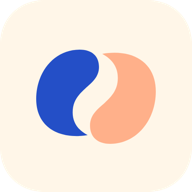
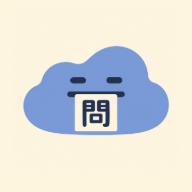
名前を「問いポスト」にそろえる。ロゴを本人の新しい雲（くもと）に替える
- 見出し・タイトル・OGP・構造化データ（旧名は alternateName に残す）・フッター・マニフェスト・問いごとの静的ページ
- ファビコン・アプリのアイコン・見出しのマークを新しいロゴから作り直した
- 画面と LINE の文の「問う応える」を「問いポスト」に

Claude-Session: https://claude.ai/code/session_01JTS9wHoswqBZuuv7uGtGUu

diff --git a/web/js/app.js b/web/js/app.js
@@ -1,5 +1,5 @@
 /**
- * app.js - Miacis 問いコーナー 本番フロントエンド制御 & ルーティング
+ * app.js - 問いポスト 本番フロントエンド制御 & ルーティング
  * ES Module (ビルド不要・素の ES Modules)
  */
 
@@ -723,7 +723,7 @@ function renderReceipt(questionId) {
 
         <div class="receipt-actions">
           ${lineLinkedIds.has(questionId) ? `
-          <p class="receipt-sub-notice">LINE とつながっているので、返事がきたら「問う応える」から知らせます。</p>`
+          <p class="receipt-sub-notice">LINE とつながっているので、返事がきたら「問いポスト」から知らせます。</p>`
           : lineReady() ? `
           <a href="${watchUrl(questionId)}" class="btn btn-line btn-block">
             返事がきたら LINE で知らせてもらう
@@ -770,7 +770,7 @@ async function renderInbox() {
         <h1 id="inbox-heading" class="inbox-h1" tabindex="-1">自分への返事</h1>
         <p class="inbox-desc">あなたが送った問いの確認状況や、届いた大人からの返事を読めます。</p>
         ${lineReady() ? (lineLinked ? `
-          <p class="inbox-desc">LINE とつながっています。ほかの端末や LINE の中で出した問いも、ここに出ます。返事がきたら「問う応える」から知らせます。
+          <p class="inbox-desc">LINE とつながっています。ほかの端末や LINE の中で出した問いも、ここに出ます。返事がきたら「問いポスト」から知らせます。
             <a href="#notes">LINE で答えたノート →</a></p>
         ` : `
           <button type="button" class="btn btn-line btn-sm" id="btn-line-connect" style="margin-top: 12px;">LINE とつなぐ（ほかの端末と同じ一覧にする）</button>
@@ -903,14 +903,14 @@ async function syncLineQuestions() {
 
 /**
  * 5-2. LINE で答えたノート (#notes)
- * 公式LINE「問う応える」に届いた問いへ、トークで答えたもの。LINE でログインした本人だけが読める
+ * 公式LINE「問いポスト」に届いた問いへ、トークで答えたもの。LINE でログインした本人だけが読める
  */
 async function renderNotes() {
   if (!lineReady() || !isConfigured()) {
     mainContainer.innerHTML = `
       <div class="card p-lg text-center" style="max-width: 500px; margin: 2rem auto;">
         <h1 id="notes-heading" tabindex="-1" class="inbox-h1">ノート</h1>
-        <p>LINE の「問う応える」で答えたことが、ここに残ります。いまは準備中です。</p>
+        <p>LINE の「問いポスト」で答えたことが、ここに残ります。いまは準備中です。</p>
         <div style="margin-top: 1rem;"><a href="#home" class="btn btn-primary">みんなの問いへ</a></div>
       </div>
     `;
@@ -943,7 +943,7 @@ async function renderNotes() {
     <div class="inbox-container">
       <div class="inbox-header">
         <h1 id="notes-heading" class="inbox-h1" tabindex="-1">自分のノート</h1>
-        <p class="inbox-desc">LINE の「問う応える」に届いた問いへ、トークで答えたことが残ります。読めるのはあなただけです。</p>
+        <p class="inbox-desc">LINE の「問いポスト」に届いた問いへ、トークで答えたことが残ります。読めるのはあなただけです。</p>
       </div>
       <div class="inbox-list">
         ${notes === null ? `
@@ -954,8 +954,8 @@ async function renderNotes() {
         ` : notes.length === 0 ? `
           <div class="card" style="text-align: center; padding: 36px 20px;">
             <p style="font-weight: 600; margin-bottom: 8px;">まだノートがありません</p>
-            <p style="font-size: 0.875rem; color: var(--color-body-muted); margin-bottom: 20px;">LINE の「問う応える」で「問い」と打つと、問いが1つ届きます。思ったことをそのまま打つと、ここに残ります。</p>
-            <a href="${FRIEND_URL}" class="btn btn-line">「問う応える」を開く</a>
+            <p style="font-size: 0.875rem; color: var(--color-body-muted); margin-bottom: 20px;">LINE の「問いポスト」で「問い」と打つと、問いが1つ届きます。思ったことをそのまま打つと、ここに残ります。</p>
+            <a href="${FRIEND_URL}" class="btn btn-line">「問いポスト」を開く</a>
           </div>
         ` : notes.map(n => `
           <article class="inbox-card">
@@ -1546,7 +1546,7 @@ async function boot() {
 
 /**
  * 「返事がきたら LINE で知らせてもらう」で開かれた（LIFF・?watch=<問いの id>）
- * LINE にログインして、この問いの返事を待つ。知らせは公式LINE「問う応える」から届く
+ * LINE にログインして、この問いの返事を待つ。知らせは公式LINE「問いポスト」から届く
  * @param {string} questionId
  */
 async function renderWatch(questionId) {
@@ -1576,12 +1576,12 @@ async function renderWatch(questionId) {
       <div class="receipt-card paper-settle-animation">
         <h1 id="watch-heading" class="receipt-title" tabindex="-1">${ok ? "返事がきたら LINE で知らせます" : "うまくいきませんでした"}</h1>
         ${ok ? `
-          <p class="receipt-status-text">公式LINE「問う応える」から届きます</p>
+          <p class="receipt-status-text">公式LINE「問いポスト」から届きます</p>
           <p class="receipt-sub-notice">届くのは「返事が届いた」とリンクだけ。問いの中身は LINE に出しません。<br>
-            「問う応える」を友だちにしていないと届きません。</p>
+            「問いポスト」を友だちにしていないと届きません。</p>
         ` : `<p class="receipt-status-text">${escapeHtml(message)}</p>`}
         <div class="receipt-actions">
-          ${ok ? `<a href="${FRIEND_URL}" class="btn btn-line btn-block">「問う応える」を友だちに追加</a>` : ""}
+          ${ok ? `<a href="${FRIEND_URL}" class="btn btn-line btn-block">「問いポスト」を友だちに追加</a>` : ""}
           <a href="#inbox" class="btn btn-primary btn-block">自分への返事を見る</a>
           <a href="#home" class="btn btn-secondary btn-block">みんなの問いへ</a>
         </div>

diff --git a/web/index.html b/web/index.html
@@ -4,19 +4,18 @@
   <meta charset="UTF-8">
   <meta name="viewport" content="width=device-width, initial-scale=1.0">
   <meta name="description" content="山梨県韮崎市の中高生の居場所・青少年育成プラザ Miacis（ミアキス）の問いコーナー。中高生が問いを書き、スタッフや地域の大人が返事を書く。館内の紙の問いコーナーを Web に広げたサイトです。">
-  <title>Miacis（ミアキス）問いコーナー｜韮崎市の中高生の問いと大人の返事</title>
+  <title>問いポスト｜韮崎市の中高生の問いと大人の返事</title>
   <link rel="canonical" href="https://nirareba0.github.io/toi-site/">
   <meta property="og:type" content="website">
-  <meta property="og:site_name" content="Miacis（ミアキス）問いコーナー">
-  <meta property="og:title" content="Miacis（ミアキス）問いコーナー｜韮崎市の中高生の問いと大人の返事">
+  <meta property="og:site_name" content="問いポスト">
+  <meta property="og:title" content="問いポスト｜韮崎市の中高生の問いと大人の返事">
   <meta property="og:description" content="中高生が問いを書き、スタッフや地域の大人が返事を書く。山梨県韮崎市 青少年育成プラザ Miacis の問いコーナー。">
   <meta property="og:url" content="https://nirareba0.github.io/toi-site/">
   <meta property="og:image" content="https://nirareba0.github.io/toi-site/assets/toi-corner-miacis.jpg">
   <meta property="og:locale" content="ja_JP">
   <meta name="twitter:card" content="summary_large_image">
-  <script type="application/ld+json">{"@context":"https://schema.org","@type":"WebSite","name":"Miacis（ミアキス）問いコーナー","alternateName":["ミアキス 問いコーナー","Miacis 問いコーナー","問いサイト"],"url":"https://nirareba0.github.io/toi-site/","inLanguage":"ja","publisher":{"@type":"Organization","name":"青少年育成プラザ Miacis（ミアキス）","alternateName":"Miacis","address":{"@type":"PostalAddress","addressLocality":"韮崎市","addressRegion":"山梨県","addressCountry":"JP"}}}</script>
+  <script type="application/ld+json">{"@context":"https://schema.org","@type":"WebSite","name":"問いポスト","alternateName":["Miacis（ミアキス）問いコーナー","ミアキス 問いコーナー","Miacis 問いコーナー","問いサイト"],"url":"https://nirareba0.github.io/toi-site/","inLanguage":"ja","publisher":{"@type":"Organization","name":"青少年育成プラザ Miacis（ミアキス）","alternateName":"Miacis","address":{"@type":"PostalAddress","addressLocality":"韮崎市","addressRegion":"山梨県","addressCountry":"JP"}}}</script>
   <meta name="theme-color" content="#244fc7">
-  <link rel="icon" href="assets/icon.svg" type="image/svg+xml">
   <link rel="icon" href="assets/favicon-32.png" sizes="32x32" type="image/png">
   <link rel="apple-touch-icon" href="assets/apple-touch-icon.png">
   <link rel="manifest" href="site.webmanifest">
@@ -39,9 +38,9 @@
   <!-- ヘッダー -->
   <header class="app-header">
     <div class="header-container">
-      <a href="#home" class="brand-link" aria-label="Miacis 問いコーナー トップへ">
-        <img class="brand-motif-icon" src="assets/mark.svg" alt="" width="26" height="22">
-        <span class="brand-title">Miacis 問いコーナー</span>
+      <a href="#home" class="brand-link" aria-label="問いポスト トップへ">
+        <img class="brand-motif-icon" src="assets/mark-cloud.png" alt="" width="36" height="22">
+        <span class="brand-title">問いポスト</span>
       </a>
 
       <!-- デスクトップ用ナビゲーション -->
@@ -76,7 +75,7 @@
   <footer class="app-footer">
     <div class="footer-container">
       <div class="footer-meta">
-        <p class="footer-facility">山梨県韮崎市 青少年育成プラザ Miacis（ミアキス）問いコーナー</p>
+        <p class="footer-facility">問いポスト（運営 たいど・山梨県韮崎市）。Miacis（ミアキス）の問いコーナーとつながっています</p>
         <p class="footer-sub">自分で問い、誰かの考えにふれる。答えがひとつに決まらなくても、そこから見えてくるものがある。</p>
       </div>
       <div class="footer-links">

diff --git a/web/js/line.js b/web/js/line.js
@@ -1,16 +1,16 @@
 // web/js/line.js
-// 公式LINE「問う応える」（@803ifgkb・運営 たいど）とつなぐ。
+// 公式LINE「問いポスト」（@803ifgkb・運営 たいど）とつなぐ。
 // - 問いに返事がきたら LINE で知らせる（supabase/line-notify.sql）: 「LINE で知らせてもらう」→ LIFF（LINE の中のブラウザ）で ?watch=<問いの id> → watch_question
 // - LINE と同期する（supabase/line-sync.sql）: LINE でログインした人の「自分の問い」と「ノート」（LINE で答えたもの）を、端末をまたいで同じにする
 // LINE の名前やプロフィールは受け取らない（openid だけ）。
 
-// LINE ログインのチャネルの LIFF。チャネルは公式LINE「問う応える」と同じプロバイダー「たいど」（1660696937）に置く
+// LINE ログインのチャネルの LIFF。チャネルは公式LINE「問いポスト」と同じプロバイダー「たいど」（1660696937）に置く
 // （LINE の ID はプロバイダーごとに違うので、別のプロバイダーだと知らせが届かない）
 export const LIFF_ID = "2011967281-zFeBIrmq";
 // 試しのあいだは、?linetest で開いた端末にだけボタンを出す（みんなに出すときに true にする）
 export const LINE_PUBLIC = false;
 const TEST_KEY = "toi.line_test";
-// 公式LINE「問う応える」を友だちに足すリンク（友だちでないと LINE は届かない）
+// 公式LINE「問いポスト」を友だちに足すリンク（友だちでないと LINE は届かない）
 export const FRIEND_URL = "https://line.me/R/ti/p/@803ifgkb";
 const LIFF_SDK = "https://static.line-scdn.net/liff/edge/2/sdk.js";
 // LINE の中から開ける画面（?view=）。LINE のトークやリッチメニューから https://liff.line.me/<LIFF_ID>?view=notes で来る
